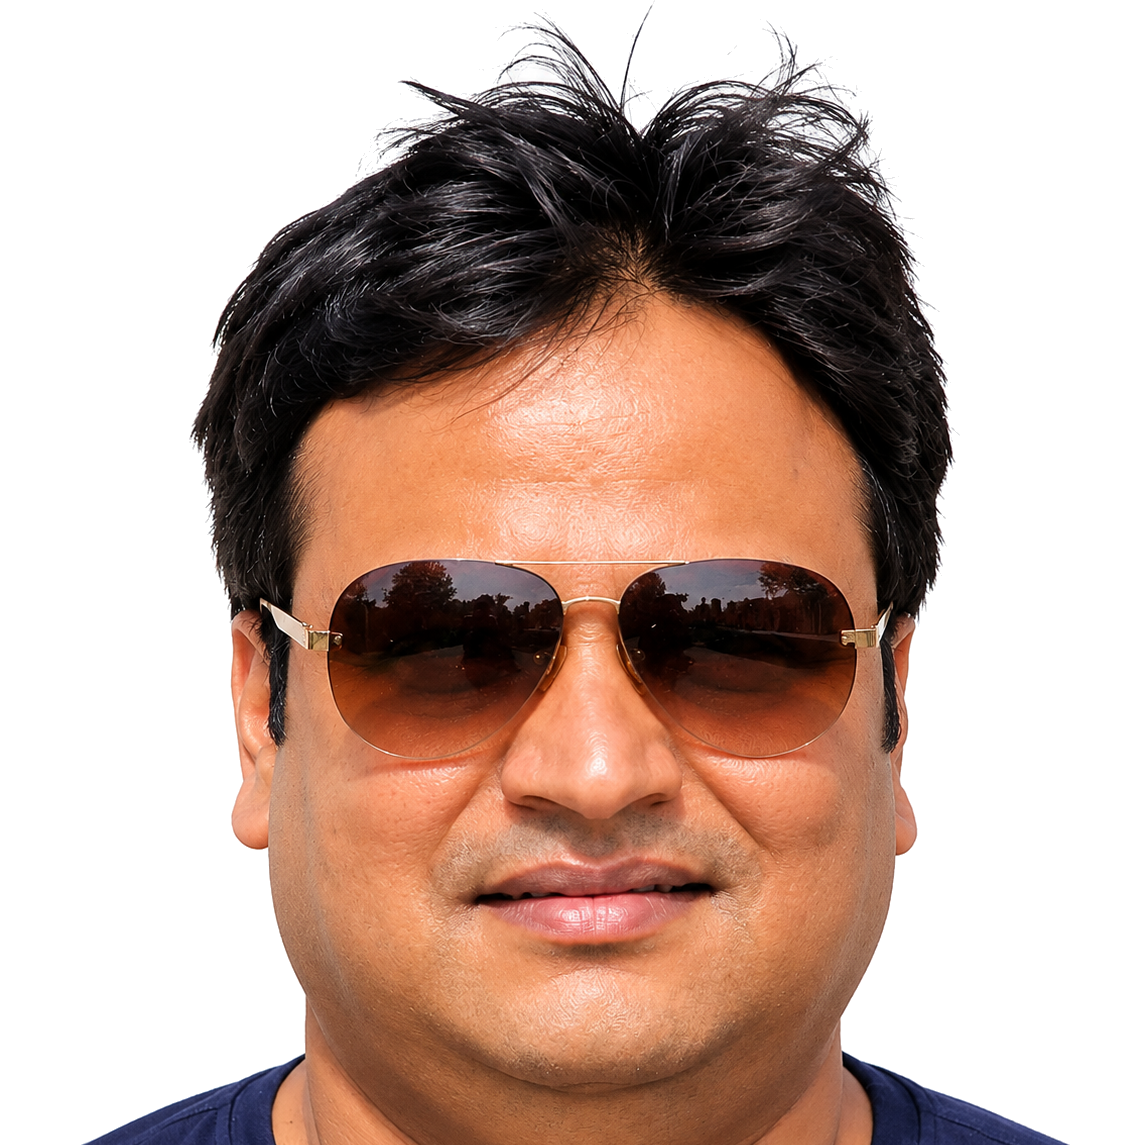
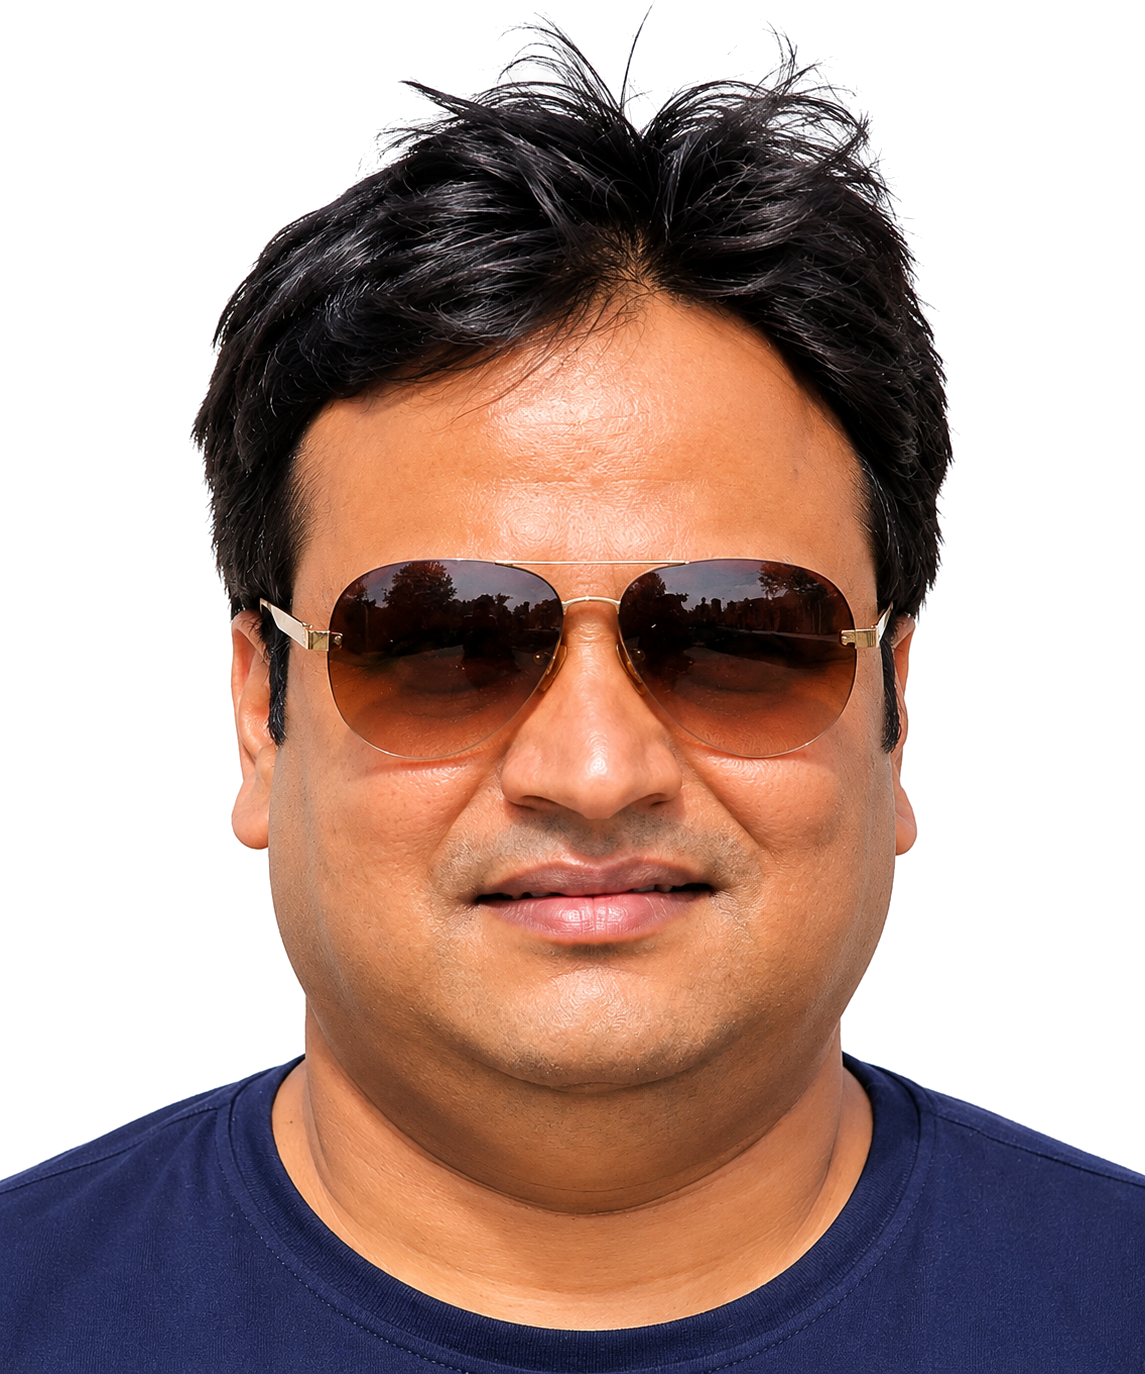
update new media

diff --git a/LAF-3.0/src/pages/TeamPage.jsx b/LAF-3.0/src/pages/TeamPage.jsx
@@ -210,7 +210,7 @@ export default function TeamPage({ isEmbedded = false }) {
       id={isEmbedded ? "festival-team" : undefined}
       className={
         isEmbedded
-          ? "relative py-12 sm:py-16 bg-[#FAF8F5] text-[#171717] font-sans selection:bg-[#D4AF37]/30 border-t border-[#E8E2D8]"
+          ? "relative pt-8 sm:pt-12 pb-4 sm:pb-6 bg-[#FAF8F5] text-[#171717] font-sans selection:bg-[#D4AF37]/30 border-t border-[#E8E2D8]"
           : "min-h-screen bg-[#FAF7F2] text-[#171717] font-sans selection:bg-[#D4AF37]/30"
       }
     >
@@ -237,7 +237,7 @@ export default function TeamPage({ isEmbedded = false }) {
         <div className="absolute right-[6%] top-0 bottom-0 w-px bg-gradient-to-b from-[#FB7801]/20 via-[#930777]/15 to-transparent" />
       </div>
 
-      <div className={`relative z-10 max-w-[1400px] mx-auto px-5 sm:px-8 lg:px-12 ${isEmbedded ? "pt-2 pb-10" : "pt-8 pb-24"}`}>
+      <div className={`relative z-10 max-w-[1400px] mx-auto px-5 sm:px-8 lg:px-12 ${isEmbedded ? "pt-2 pb-0" : "pt-8 pb-24"}`}>
         
         {/* Top Breadcrumbs & Back button */}
         {!isEmbedded && (
@@ -275,21 +275,21 @@ export default function TeamPage({ isEmbedded = false }) {
             Convenors
           </h2>
 
-          <div className="grid grid-cols-2 sm:grid-cols-4 gap-6 sm:gap-8 max-w-4xl mx-auto justify-items-center">
+          <div className="flex flex-wrap items-start justify-center gap-3 sm:gap-3.5 md:gap-4 max-w-4xl mx-auto">
             {convenorLeadershipMembers.map((c, index) => (
               <motion.div
                 key={c.id}
                 initial={{ opacity: 0, y: 15 }}
                 animate={{ opacity: 1, y: 0 }}
                 transition={{ duration: 0.4, delay: index * 0.1 }}
-                className="group flex flex-col items-center text-center w-full max-w-[160px]"
+                className="group flex flex-col items-center text-center w-28 sm:w-32 md:w-36"
               >
-                {/* Red Curved Arch Frame (Reduced Top Spacing) */}
-                <div className="relative w-28 h-36 sm:w-32 sm:h-42 md:w-36 md:h-46 rounded-t-full border-2 border-[#D8232A] bg-white overflow-hidden flex items-end justify-center shadow-xs group-hover:shadow-[0_8px_24px_rgba(216,35,42,0.18)] transition-all duration-300">
+                {/* Red Curved Arch Frame (Reduced Height) */}
+                <div className="relative w-28 h-32 sm:w-32 sm:h-36 md:w-36 md:h-40 rounded-t-full border-2 border-[#D8232A] bg-white overflow-hidden flex items-end justify-center shadow-xs group-hover:shadow-[0_8px_24px_rgba(216,35,42,0.18)] transition-all duration-300">
                   <img
                     src={c.image}
                     alt={c.name}
-                    className="w-full h-[90%] object-cover object-top group-hover:scale-105 transition-transform duration-500"
+                    className="w-full h-[84%] object-cover object-top group-hover:scale-105 transition-transform duration-500"
                     loading="lazy"
                   />
                 </div>
@@ -311,21 +311,21 @@ export default function TeamPage({ isEmbedded = false }) {
             Curators
           </h2>
 
-          <div className="grid grid-cols-2 sm:grid-cols-4 lg:grid-cols-7 gap-4 sm:gap-6 max-w-7xl mx-auto justify-items-center">
+          <div className="flex flex-wrap items-start justify-center gap-3 sm:gap-3.5 md:gap-4 max-w-6xl mx-auto">
             {coreCommitteeMembers.map((member, index) => (
               <motion.div
                 key={member.id}
                 initial={{ opacity: 0, y: 15 }}
                 animate={{ opacity: 1, y: 0 }}
                 transition={{ duration: 0.4, delay: index * 0.08 }}
-                className="group flex flex-col items-center text-center w-full max-w-[160px]"
+                className="group flex flex-col items-center text-center w-28 sm:w-32 md:w-36"
               >
-                {/* Red Curved Arch Frame (Reduced Top Spacing) */}
-                <div className="relative w-28 h-36 sm:w-32 sm:h-42 md:w-36 md:h-46 rounded-t-full border-2 border-[#D8232A] bg-white overflow-hidden flex items-end justify-center shadow-xs group-hover:shadow-[0_8px_24px_rgba(216,35,42,0.18)] transition-all duration-300">
+                {/* Red Curved Arch Frame (Reduced Height) */}
+                <div className="relative w-28 h-32 sm:w-32 sm:h-36 md:w-36 md:h-40 rounded-t-full border-2 border-[#D8232A] bg-white overflow-hidden flex items-end justify-center shadow-xs group-hover:shadow-[0_8px_24px_rgba(216,35,42,0.18)] transition-all duration-300">
                   <img
                     src={member.image}
                     alt={member.name}
-                    className="w-full h-[90%] object-cover object-top group-hover:scale-105 transition-transform duration-500"
+                    className="w-full h-[84%] object-cover object-top group-hover:scale-105 transition-transform duration-500"
                     loading="lazy"
                   />
                 </div>
@@ -347,21 +347,21 @@ export default function TeamPage({ isEmbedded = false }) {
             Curatorial Directors
           </h2>
 
-          <div className="grid grid-cols-2 sm:grid-cols-3 gap-6 sm:gap-8 max-w-2xl mx-auto justify-items-center">
+          <div className="flex flex-wrap items-start justify-center gap-3 sm:gap-3.5 md:gap-4 max-w-3xl mx-auto">
             {curatorialDirectors.map((d, index) => (
               <motion.div
                 key={d.id}
                 initial={{ opacity: 0, y: 15 }}
                 animate={{ opacity: 1, y: 0 }}
                 transition={{ duration: 0.4, delay: index * 0.1 }}
-                className="group flex flex-col items-center text-center w-full max-w-[160px]"
+                className="group flex flex-col items-center text-center w-28 sm:w-32 md:w-36"
               >
-                {/* Red Curved Arch Frame (Reduced Top Spacing) */}
-                <div className="relative w-28 h-36 sm:w-32 sm:h-42 md:w-36 md:h-46 rounded-t-full border-2 border-[#D8232A] bg-white overflow-hidden flex items-end justify-center shadow-xs group-hover:shadow-[0_8px_24px_rgba(216,35,42,0.18)] transition-all duration-300">
+                {/* Red Curved Arch Frame (Reduced Height) */}
+                <div className="relative w-28 h-32 sm:w-32 sm:h-36 md:w-36 md:h-40 rounded-t-full border-2 border-[#D8232A] bg-white overflow-hidden flex items-end justify-center shadow-xs group-hover:shadow-[0_8px_24px_rgba(216,35,42,0.18)] transition-all duration-300">
                   <img
                     src={d.image}
                     alt={d.name}
-                    className="w-full h-[90%] object-cover object-top group-hover:scale-105 transition-transform duration-500"
+                    className="w-full h-[84%] object-cover object-top group-hover:scale-105 transition-transform duration-500"
                     loading="lazy"
                   />
                 </div>
@@ -383,21 +383,21 @@ export default function TeamPage({ isEmbedded = false }) {
             Coordinators
           </h2>
 
-          <div className="grid grid-cols-2 sm:grid-cols-4 md:grid-cols-6 lg:grid-cols-8 gap-4 sm:gap-5 max-w-7xl mx-auto justify-items-center">
+          <div className="flex flex-wrap items-start justify-center gap-3 sm:gap-3.5 md:gap-4 max-w-7xl mx-auto">
             {studentVolunteers.map((member, index) => (
               <motion.div
                 key={member.id}
                 initial={{ opacity: 0, y: 15 }}
                 animate={{ opacity: 1, y: 0 }}
                 transition={{ duration: 0.35, delay: Math.min(index * 0.04, 0.4) }}
-                className="group flex flex-col items-center text-center w-full max-w-[150px]"
+                className="group flex flex-col items-center text-center w-28 sm:w-32 md:w-36"
               >
-                {/* Red Curved Arch Frame (Reduced Top Spacing) */}
-                <div className="relative w-28 h-36 sm:w-32 sm:h-42 md:w-36 md:h-46 rounded-t-full border-2 border-[#D8232A] bg-white overflow-hidden flex items-end justify-center shadow-xs group-hover:shadow-[0_8px_24px_rgba(216,35,42,0.18)] transition-all duration-300">
+                {/* Red Curved Arch Frame (Reduced Height) */}
+                <div className="relative w-28 h-32 sm:w-32 sm:h-36 md:w-36 md:h-40 rounded-t-full border-2 border-[#D8232A] bg-white overflow-hidden flex items-end justify-center shadow-xs group-hover:shadow-[0_8px_24px_rgba(216,35,42,0.18)] transition-all duration-300">
                   <img
                     src={member.image}
                     alt={member.name}
-                    className="w-full h-[90%] object-cover object-top group-hover:scale-105 transition-transform duration-500"
+                    className="w-full h-[84%] object-cover object-top group-hover:scale-105 transition-transform duration-500"
                     loading="lazy"
                   />
                 </div>
@@ -414,28 +414,26 @@ export default function TeamPage({ isEmbedded = false }) {
         </div>
 
         {/* 5. Joint Coordinators Section */}
-        <div className="mb-16">
+        <div className="mb-6 sm:mb-8">
           <h2 className="font-sans font-bold text-2xl sm:text-3xl md:text-4xl text-[#1E3A8A] text-center mb-8 sm:mb-10 tracking-tight">
             Joint Coordinators
           </h2>
 
-          <div className="grid grid-cols-2 sm:grid-cols-4 md:grid-cols-6 lg:grid-cols-8 gap-4 sm:gap-5 max-w-7xl mx-auto justify-items-center">
+          <div className="flex flex-wrap items-start justify-center gap-3 sm:gap-3.5 md:gap-4 max-w-7xl mx-auto">
             {advisorsMentorsMembers.map((member, index) => (
               <motion.div
                 key={member.id}
                 initial={{ opacity: 0, y: 15 }}
                 animate={{ opacity: 1, y: 0 }}
                 transition={{ duration: 0.35, delay: Math.min(index * 0.04, 0.4) }}
-                className={`group flex flex-col items-center text-center w-full max-w-[150px] ${
-                  index === 16 ? "lg:col-start-2" : ""
-                }`}
+                className="group flex flex-col items-center text-center w-28 sm:w-32 md:w-36"
               >
-                {/* Red Curved Arch Frame (Reduced Top Spacing) */}
-                <div className="relative w-28 h-36 sm:w-32 sm:h-42 md:w-36 md:h-46 rounded-t-full border-2 border-[#D8232A] bg-white overflow-hidden flex items-end justify-center shadow-xs group-hover:shadow-[0_8px_24px_rgba(216,35,42,0.18)] transition-all duration-300">
+                {/* Red Curved Arch Frame (Reduced Height) */}
+                <div className="relative w-28 h-32 sm:w-32 sm:h-36 md:w-36 md:h-40 rounded-t-full border-2 border-[#D8232A] bg-white overflow-hidden flex items-end justify-center shadow-xs group-hover:shadow-[0_8px_24px_rgba(216,35,42,0.18)] transition-all duration-300">
                   <img
                     src={member.image}
                     alt={member.name}
-                    className="w-full h-[90%] object-cover object-top group-hover:scale-105 transition-transform duration-500"
+                    className="w-full h-[84%] object-cover object-top group-hover:scale-105 transition-transform duration-500"
                     loading="lazy"
                   />
                 </div>

diff --git a/LAF-3.0/src/components/HomeComponents/LafInMediaSection.jsx b/LAF-3.0/src/components/HomeComponents/LafInMediaSection.jsx
@@ -13,7 +13,7 @@ import news2Img from "../../assets/images/news2.png";
 import news3Img from "../../assets/images/news3.png";
 import news4Img from "../../assets/images/news4.png";
 import news5Img from "../../assets/images/news5.png";
-import news6Img from "../../assets/images/news6.png";
+import news6Img from "../../assets/images/neww.jpeg";
 import news7Img from "../../assets/images/news7.png";
 import news8Img from "../../assets/images/news8.png";
 import news9Img from "../../assets/images/news9.png";
@@ -291,7 +291,8 @@ export default function LafInMediaSection() {
   return (
     <section
       id="laf-in-media"
-      className="relative overflow-hidden bg-[#FAF8F5] pt-8 sm:pt-12 lg:pt-14 pb-10 sm:pb-14 lg:pb-16 select-none font-sans border-t border-[#E8E2D8]"
+      // 🚀 Reduced top padding to remove gap since heading is removed
+      className="relative overflow-hidden bg-[#FAF8F5] pt-4 sm:pt-6 lg:pt-8 pb-10 sm:pb-14 lg:pb-16 select-none font-sans border-t border-[#E8E2D8]"
     >
       {/* Signature Architectural Grid Background */}
       <div
@@ -308,26 +309,23 @@ export default function LafInMediaSection() {
       {/* Main Container Aligned to Navbar Width */}
       <div className="relative mx-auto max-w-[1400px] px-5 sm:px-8 lg:px-12">
         
-        {/* ================= SECTION HEADLINE (LEFT ALIGNED) ================= */}
-        <div className="mb-8 sm:mb-10">
-          <div className="flex pb-6 border-b border-neutral-900/15">
-            <motion.div
-              initial={{ opacity: 0, y: 15 }}
-              whileInView={{ opacity: 1, y: 0 }}
-              viewport={{ once: true }}
-              transition={{ duration: 0.5 }}
-            >
-              <h2 className="bg-[#D8232A] text-white px-3.5 py-1 text-3xl sm:text-4xl md:text-[42px] font-bold tracking-tight inline-block leading-tight">
-                LAF In Media
-              </h2>
-            </motion.div>
-          </div>
-        </div>
+        {/* ================= SLIDER CONTROL TOOLBAR (Heading + Controls) ================= */}
+        <div className="mb-6 flex items-center justify-between gap-4 border-b border-neutral-900/15 pb-4">
+          
+          {/* 🚀 Heading moved to Left Side */}
+          <motion.div
+            initial={{ opacity: 0, x: -20 }}
+            whileInView={{ opacity: 1, x: 0 }}
+            viewport={{ once: true }}
+            transition={{ duration: 0.5 }}
+          >
+            <h2 className="bg-[#D8232A] text-white px-3.5 py-1 text-3xl sm:text-4xl md:text-[42px] font-bold tracking-tight inline-block leading-tight">
+              LAF In Media
+            </h2>
+          </motion.div>
 
-        {/* ================= SLIDER CONTROL TOOLBAR ================= */}
-        <div className="mb-6 flex items-center justify-end gap-4">
           {/* Right Side Controls (Counter & Buttons) */}
-          <div className="flex items-center gap-3">
+          <div className="flex items-center gap-3 mt-2 sm:mt-0">
             {/* Active Counter Badge */}
             <div className="font-mono text-xs sm:text-sm font-bold tracking-widest text-neutral-700 bg-white border border-neutral-300 px-3 py-1.5 rounded-xl shadow-2xs">
               <span className="text-[#D8232A]">{newsArticles[currentIndex].num}</span>

diff --git a/LAF-3.0/src/components/HomeComponents/CorporateCommitteePage.jsx b/LAF-3.0/src/components/HomeComponents/CorporateCommitteePage.jsx
@@ -39,7 +39,7 @@ export function CorporateCommitteePage({ isEmbedded = true }) {
       id={isEmbedded ? "corporate-committee" : undefined}
       className={
         isEmbedded
-          ? "relative py-12 sm:py-16 bg-[#FAF8F5] text-[#171717] font-sans selection:bg-[#D4AF37]/30 border-t border-[#E8E2D8]"
+          ? "relative pt-2 sm:pt-4 pb-6 sm:pb-8 bg-[#FAF8F5] text-[#171717] font-sans selection:bg-[#D4AF37]/30"
           : "min-h-screen bg-[#FAF7F2] text-[#171717] font-sans selection:bg-[#D4AF37]/30"
       }
     >
@@ -58,10 +58,10 @@ export function CorporateCommitteePage({ isEmbedded = true }) {
       </div>
 
       {/* Main Content Area */}
-      <div className={`relative z-10 max-w-[1400px] mx-auto px-5 sm:px-8 lg:px-12 ${isEmbedded ? "pt-2 pb-10" : "pt-12 pb-24"}`}>
+      <div className={`relative z-10 max-w-[1400px] mx-auto px-5 sm:px-8 lg:px-12 ${isEmbedded ? "pt-0 pb-4" : "pt-12 pb-24"}`}>
         
         {/* Corporate Committee Members Section */}
-        <div className="mb-14">
+        <div className="mb-4 sm:mb-6">
           <div className="flex flex-col items-start gap-1 mb-8">
             <span className="bg-[#D8232A] text-white px-3.5 py-1 text-2xl sm:text-3xl font-bold tracking-tight inline-block leading-tight">
               LAF 3.0
@@ -71,21 +71,21 @@ export function CorporateCommitteePage({ isEmbedded = true }) {
             </h2>
           </div>
 
-          <div className="grid grid-cols-2 sm:grid-cols-3 lg:grid-cols-6 gap-4 sm:gap-6 max-w-5xl justify-items-start">
+          <div className="flex flex-wrap items-start justify-start gap-3 sm:gap-3.5 md:gap-4 max-w-7xl">
             {corporateCommitteeMembers.map((member, index) => (
               <motion.div
                 key={member.id}
                 initial={{ opacity: 0, y: 15 }}
                 animate={{ opacity: 1, y: 0 }}
                 transition={{ duration: 0.35, delay: index * 0.08 }}
-                className="group flex flex-col items-center text-center w-full max-w-[150px]"
+                className="group flex flex-col items-center text-center w-28 sm:w-32 md:w-36"
               >
                 {/* Red Curved Arch Frame */}
-                <div className="relative w-28 h-40 sm:w-32 sm:h-44 md:w-36 md:h-48 rounded-t-full border-2 border-[#D8232A] bg-white overflow-hidden flex items-end justify-center shadow-xs group-hover:shadow-[0_8px_24px_rgba(216,35,42,0.18)] transition-all duration-300">
+                <div className="relative w-28 h-32 sm:w-32 sm:h-36 md:w-36 md:h-40 rounded-t-full border-2 border-[#D8232A] bg-white overflow-hidden flex items-end justify-center shadow-xs group-hover:shadow-[0_8px_24px_rgba(216,35,42,0.18)] transition-all duration-300">
                   <img
                     src={member.image}
                     alt={member.name}
-                    className="w-full aspect-square object-cover object-bottom group-hover:scale-105 transition-transform duration-500"
+                    className="w-full h-[84%] object-cover object-top group-hover:scale-105 transition-transform duration-500"
                     loading="lazy"
                   />
                 </div>

diff --git a/LAF-3.0/src/components/HomeComponents/SupportingOrganizationsSection.jsx b/LAF-3.0/src/components/HomeComponents/SupportingOrganizationsSection.jsx
@@ -131,7 +131,7 @@ export default function SupportingOrganizationsSection() {
   return (
     <section
       id="supporting-organizations"
-      className="relative overflow-hidden bg-[#FAF8F5] pt-12 sm:pt-16 lg:pt-20 pb-10 sm:pb-12 select-none font-sans border-t border-[#E6DFD3]"
+      className="relative overflow-hidden bg-[#FAF8F5] pt-4 sm:pt-6 lg:pt-8 pb-10 sm:pb-12 select-none font-sans border-t border-[#E6DFD3]"
     >
       {/* Subtle architectural grid background */}
       <div
@@ -219,23 +219,23 @@ function OrgCard({ item }) {
       {/* Main Body: Clean Logo (Left) + Red Curved Arch Portrait (Right) */}
       <div className="grid grid-cols-2 gap-3 sm:gap-4 items-center w-full my-auto">
         {/* Left: Clean Logo */}
-        <div className="flex items-center justify-center p-1 sm:p-2 h-26 sm:h-32">
+        <div className="flex items-center justify-center p-1 sm:p-2 h-24 sm:h-28">
           <img
             src={item.logo}
             alt={item.badge}
-            className="max-h-[75px] sm:max-h-[90px] w-auto max-w-full object-contain group-hover:scale-105 transition-transform duration-300"
+            className="max-h-[70px] sm:max-h-[82px] w-auto max-w-full object-contain group-hover:scale-105 transition-transform duration-300"
             loading="lazy"
           />
         </div>
 
         {/* Right: Red Curved Arch Portrait + Representative Details */}
         <div className="flex flex-col items-center text-center">
-          {/* Red Curved Arch Frame (Matching Corporate Committee 2nd Image Exactly) */}
-          <div className="relative w-28 h-40 sm:w-32 sm:h-44 rounded-t-full border-2 border-[#D8232A] bg-white overflow-hidden flex items-end justify-center shadow-xs group-hover:shadow-[0_8px_24px_rgba(216,35,42,0.18)] transition-all duration-300 shrink-0">
+          {/* Red Curved Arch Frame (Matching Curators Height & Proportion) */}
+          <div className="relative w-28 h-32 sm:w-32 sm:h-36 rounded-t-full border-2 border-[#D8232A] bg-white overflow-hidden flex items-end justify-center shadow-xs group-hover:shadow-[0_8px_24px_rgba(216,35,42,0.18)] transition-all duration-300 shrink-0">
             <img
               src={item.personImg}
               alt={item.person}
-              className="w-full aspect-square object-cover object-bottom group-hover:scale-105 transition-transform duration-500"
+              className="w-full h-[88%] object-cover object-top group-hover:scale-105 transition-transform duration-500"
               loading="lazy"
             />
           </div>

diff --git a/LAF-3.0/src/components/HomeComponents/AboutSection.jsx b/LAF-3.0/src/components/HomeComponents/AboutSection.jsx
@@ -29,7 +29,7 @@ import highlight3 from "../../assets/images/card3.png";
 import highlight4 from "../../assets/images/card4.png";
 
 // --- NEW ABOUT SECTION IMAGES ---
-import aboutRightImage from "../../assets/images/IMG_3533.PNG"; 
+import aboutRightImage from "../../assets/images/Vibrant Indian Heritage Street Collage.png"; 
 
 const AboutSection = () => {
   // Unified architectural branding (Brand Red #D8232A)
